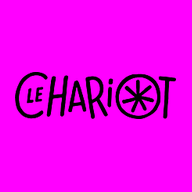
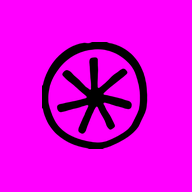
Nouvelle icône de l'appli : le symbole du Chariot sur fond rose
Claude-Session: https://claude.ai/code/session_019Db5SaMEaed1QnssREJR3S

Changed region(s): [[0.0625, 0.2188, 0.9375, 0.7812]]

diff --git a/site/index.html b/site/index.html
@@ -5,6 +5,7 @@
 <meta name="viewport" content="width=device-width,initial-scale=1,viewport-fit=cover">
 <link rel="manifest" href="manifest.webmanifest">
 <link rel="apple-touch-icon" href="icon-192.png">
+<link rel="icon" type="image/png" href="icon-192.png">
 <meta name="apple-mobile-web-app-capable" content="yes">
 <style>:root{box-sizing:border-box;padding-top:env(safe-area-inset-top,0px);padding-bottom:env(safe-area-inset-bottom,0px)}html{scroll-padding-top:env(safe-area-inset-top,0px)}img{max-width:100%}[hidden]{display:none!important}</style>
 <title>Théâtre du Chariot</title>

diff --git a/outils/build.py b/outils/build.py
@@ -95,7 +95,7 @@ def main(src_path):
     html = (
         '<!doctype html>\n<html lang="fr">\n<head>\n<meta charset="utf-8">\n'
         '<meta name="viewport" content="width=device-width,initial-scale=1,viewport-fit=cover">\n'
-        '<link rel="manifest" href="manifest.webmanifest">\n<link rel="apple-touch-icon" href="icon-192.png">\n'
+        '<link rel="manifest" href="manifest.webmanifest">\n<link rel="apple-touch-icon" href="icon-192.png">\n<link rel="icon" type="image/png" href="icon-192.png">\n'
         '<meta name="apple-mobile-web-app-capable" content="yes">\n'
         # Règles de base fournies par claude.ai autour de l'artefact, à reproduire ici :
         # sans [hidden]{display:none}, les fenêtres (message d'accueil…) ne se ferment pas.
